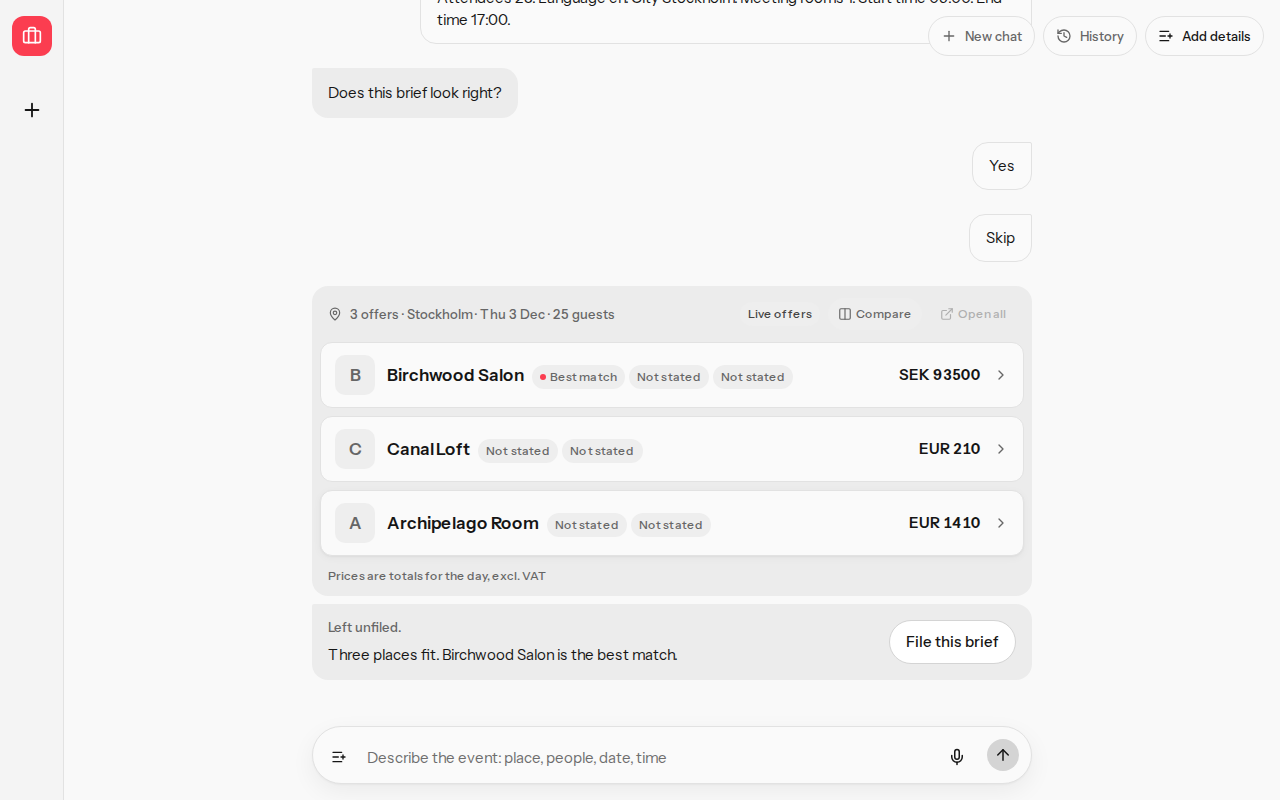
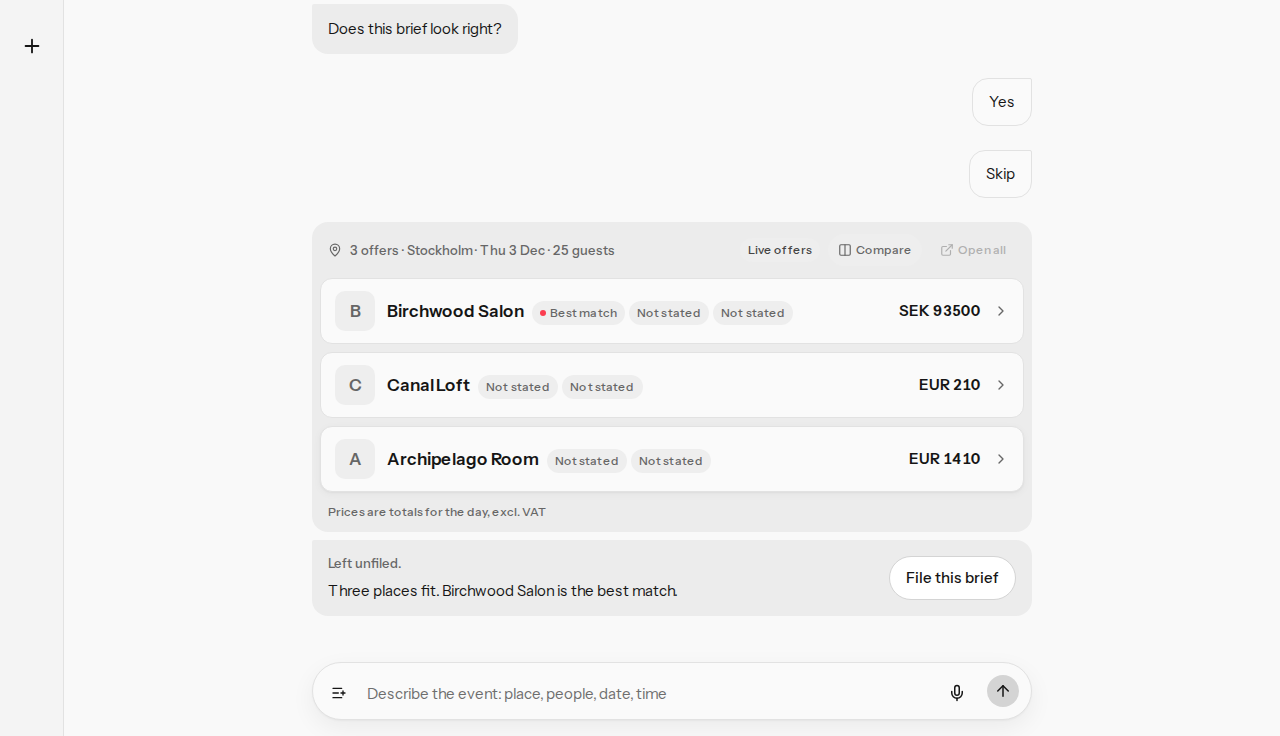
Restore the rollback count and crop the desktop hero.
Production deploys are the GitHub list of 32, and the desktop shot starts at the confirm line.

diff --git a/docs/evidence/reading-path.md b/docs/evidence/reading-path.md
@@ -23,10 +23,11 @@ Session-span figures are the owner's estimate as supplied. They were not recompu
 | Issues open | `gh issue list --repo p10ns11y/proposales-planner-bench --state open --limit 200 --json number` | 11 |
 | ship-by-thursday | Same closed and open lists, label `ship-by-thursday` | 19 closed, 0 open |
 | Finding issues | Closed issues titled V1–V6, V8–V10, U1, or U3 | 11, all closed |
-| Vitest | `pnpm exec vitest run` on `182b6f4` | 329 passed, 36 files, 40.89 s. Start 18:07:25 UTC |
+| Vitest | `pnpm exec vitest run` on `182b6f4` | 329 passed, 36 files, 40.89 s. Start 20:07:25 Stockholm |
 | Playwright scenarios | `pnpm exec playwright test --list` | Total: 27 tests in 6 files |
 | Vitest plus Playwright | 329 + 27 | 356 |
-| Production deploys | Vercel production list for this project, limit 100 | 34 records, one page: 33 ready, 1 error. Newest ready sha `182b6f4`, created `2026-10-08T18:46:03+02:00`. `isRollbackCandidate` is not a completed rollback |
+| Production deploys | `gh api repos/p10ns11y/proposales-planner-bench/deployments?environment=Production` | 32, all successful. Newest `182b6f4` at 18:46:32 Stockholm. The first page is 30 and links a next page of 2. |
+| Rollbacks | Production was rolled back to `4b99a6a` at 16:35 Stockholm on 8 Oct | 1 |
 
 `docs/FINDINGS.md` is a note in the repo. It is not treated as the V-findings issue count.
 

diff --git a/docs/evidence.md b/docs/evidence.md
@@ -34,7 +34,7 @@ A file is inside the band when the later count is between 40% and 60% of the ear
 | 1 | 1 | kept | CLAUDE.md |
 | 23826 | 12605 |  | Total, 24 files |
 
-`e2e/features/critical-path.feature` is 1105 words after main added scenarios. `qa/composer-mic.md` is 91 words and `qa/filing-email.md` is 74. Those three arrived with `db1324d`.
+`e2e/features/critical-path.feature` is 1105 words after main added scenarios. `qa/composer-mic.md` is 91 words and `qa/filing-email.md` is 113. Those three arrived with `db1324d`.
 
 The README is a new front page, so the 40–60% band does not apply. It has 113 words in all, and 78 words outside fenced blocks. A few rows sit a little over 60% after the drawer, currency, and filing sentences from main.
 
@@ -48,7 +48,7 @@ The capture is the page in Chromium.
 | --- | --- |
 | docs/media/walkthrough.mp4 | 14.57 s, 449118 bytes, 1280×800, H.264, 30 fps, no audio |
 | docs/media/walkthrough.gif | 14.60 s, 1913437 bytes, 720×450, 146 frames |
-| docs/media/hero-desktop.png | 1280×800, 60677 bytes |
+| docs/media/hero-desktop.png | 1280×736, 42413 bytes, cropped below the floating header |
 | docs/media/hero-phone.png | 390×844, 47269 bytes |
 | docs/media/poster.png | 1280×800, 60476 bytes, still of Add details |
 | docs/media/actualization-brief.png | 1280×800, 40001 bytes, production brief card |

diff --git a/notes/worklog.md b/notes/worklog.md
@@ -42,9 +42,12 @@ Thursday's span stops at 14:57. Commits and merged pull requests are the whole S
 | Vitest tests | 329 passed, 36 files, 40.89 s |
 | Playwright tests | 27 in 6 files |
 | Vitest plus Playwright | 356 |
-| Production deploys | 34 listed (33 ready, 1 error) |
+| Production deploys | 32 |
+| Rollbacks | 1 |
 
-Counted on main at `182b6f4`. The production list does not show a completed rollback. Commands: [evidence](../docs/evidence/reading-path.md).
+Open pull requests are not in the totals.
+
+Counted on main at `182b6f4`. Commands: [evidence](../docs/evidence/reading-path.md).
 
 ## Written log
 
@@ -62,8 +65,6 @@ UTC+2. This is the log as written with the pages. It is not the session-span est
 | Minutes | Prompts | Harnesses |
 | --- | --- | --- |
 | ~154 min | 24 | Cursor, Grok build, cloud agent |
-
-Open pull requests are not in the totals.
 
 Back: [Architecture](../docs/ARCHITECTURE.md)
 

diff --git a/README.md b/README.md
@@ -8,7 +8,7 @@ Proposales API readers are validated with [@adaptate/utils](https://www.npmjs.co
 
 Live: [proposales-planner-bench.vercel.app](https://proposales-planner-bench.vercel.app)
 
-![Desktop, 1280 by 800](docs/media/hero-desktop.png)
+![Desktop, 1280 by 736](docs/media/hero-desktop.png)
 
 ![Phone, 390 by 844](docs/media/hero-phone.png)
 
